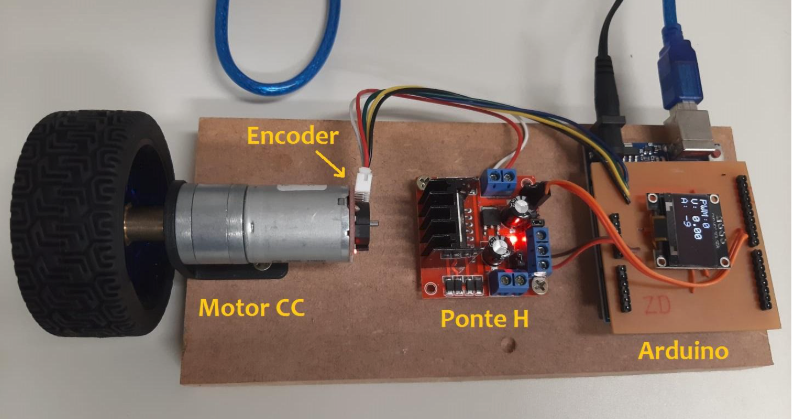
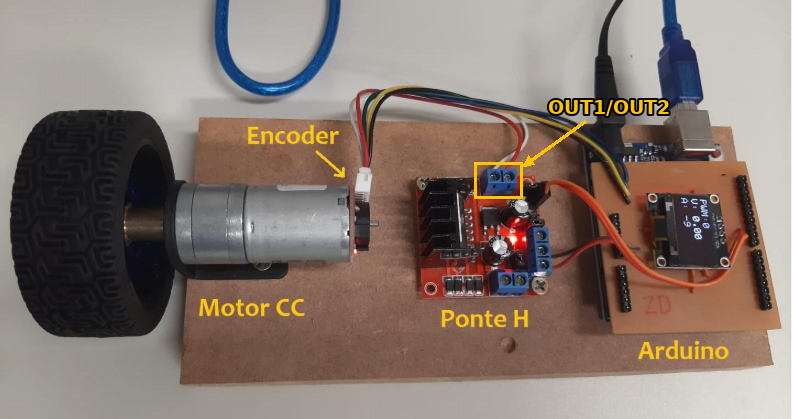
Update from https://github.com/fabiobento/lab-cont-2026-2-privado/commit/ba214d30f1b1f890da3fcdf5b9a1b4b41d7a3c97

diff --git a/projeto_final/projeto_final_motor_cc.md b/projeto_final/projeto_final_motor_cc.md
@@ -26,7 +26,7 @@ O kit do laboratório: Arduino Uno com shield e display OLED, ponte H L298N, mot
 
 ![Bancada do projeto: motor CC com encoder e roda, ponte H L298N e Arduino Uno com display OLED](figuras/bancada_motor_cc.png)
 
-*Figura 1 — A bancada: motor CC com encoder e roda, ponte H (L298N) e Arduino Uno com shield e display OLED.*
+*Figura 1 — A bancada: motor CC com encoder e roda, ponte H (L298N) e Arduino Uno com shield e display OLED. Em amarelo, o borne OUT1/OUT2, onde entram os fios vermelho e branco do motor.*
 
 | Ligação | Pino do Arduino |
 |---|---|
@@ -133,7 +133,7 @@ com as saídas** e a pasta `dados/` completa, no local indicado pelo professor.
 | `Permission denied: '/dev/ttyUSB0'`, porta que some, `ModuleNotFoundError` | ambiente do desktop incompleto | tabela da Seção 4 do `INSTALACAO_UBUNTU.md` |
 | gravou, mas o display não mostra **PRONTO** | `pid_motor.ino` desatualizado (pouca RAM para o display) | grave a versão atual do repositório (a IDE deve informar "deixando ≈ 1320 bytes") |
 | erro de compilação na `Adafruit_SSD1306` | biblioteca não instalada | `arduino-cli lib install "Adafruit SSD1306"`, ou troque `#define USAR_OLED 1` por `0` |
-| no teste de sentido, a posição diminui | sentido do motor × sentido do encoder | desligue a fonte e inverta os fios do motor em OUT1/OUT2 (não troque C1/C2) |
+| no teste de sentido, a posição diminui | sentido do motor × sentido do encoder | desligue a fonte e inverta os fios vermelho e branco no borne de cima da ponte H (OUT1/OUT2, Figura 1); não troque C1/C2 |
 | em malha fechada, o motor dispara girando sem parar | realimentação positiva (o teste de sentido não foi feito ou foi desfeito) | desligue e refaça o teste de sentido |
 | o ângulo de 90° vira ≈ 45° ou 180° | `CPG` errado | refaça a calibração da Aula 1 |
 | erro de regime de vários graus | atrito/zona morta | é o assunto das Aulas 2 e 3 |
